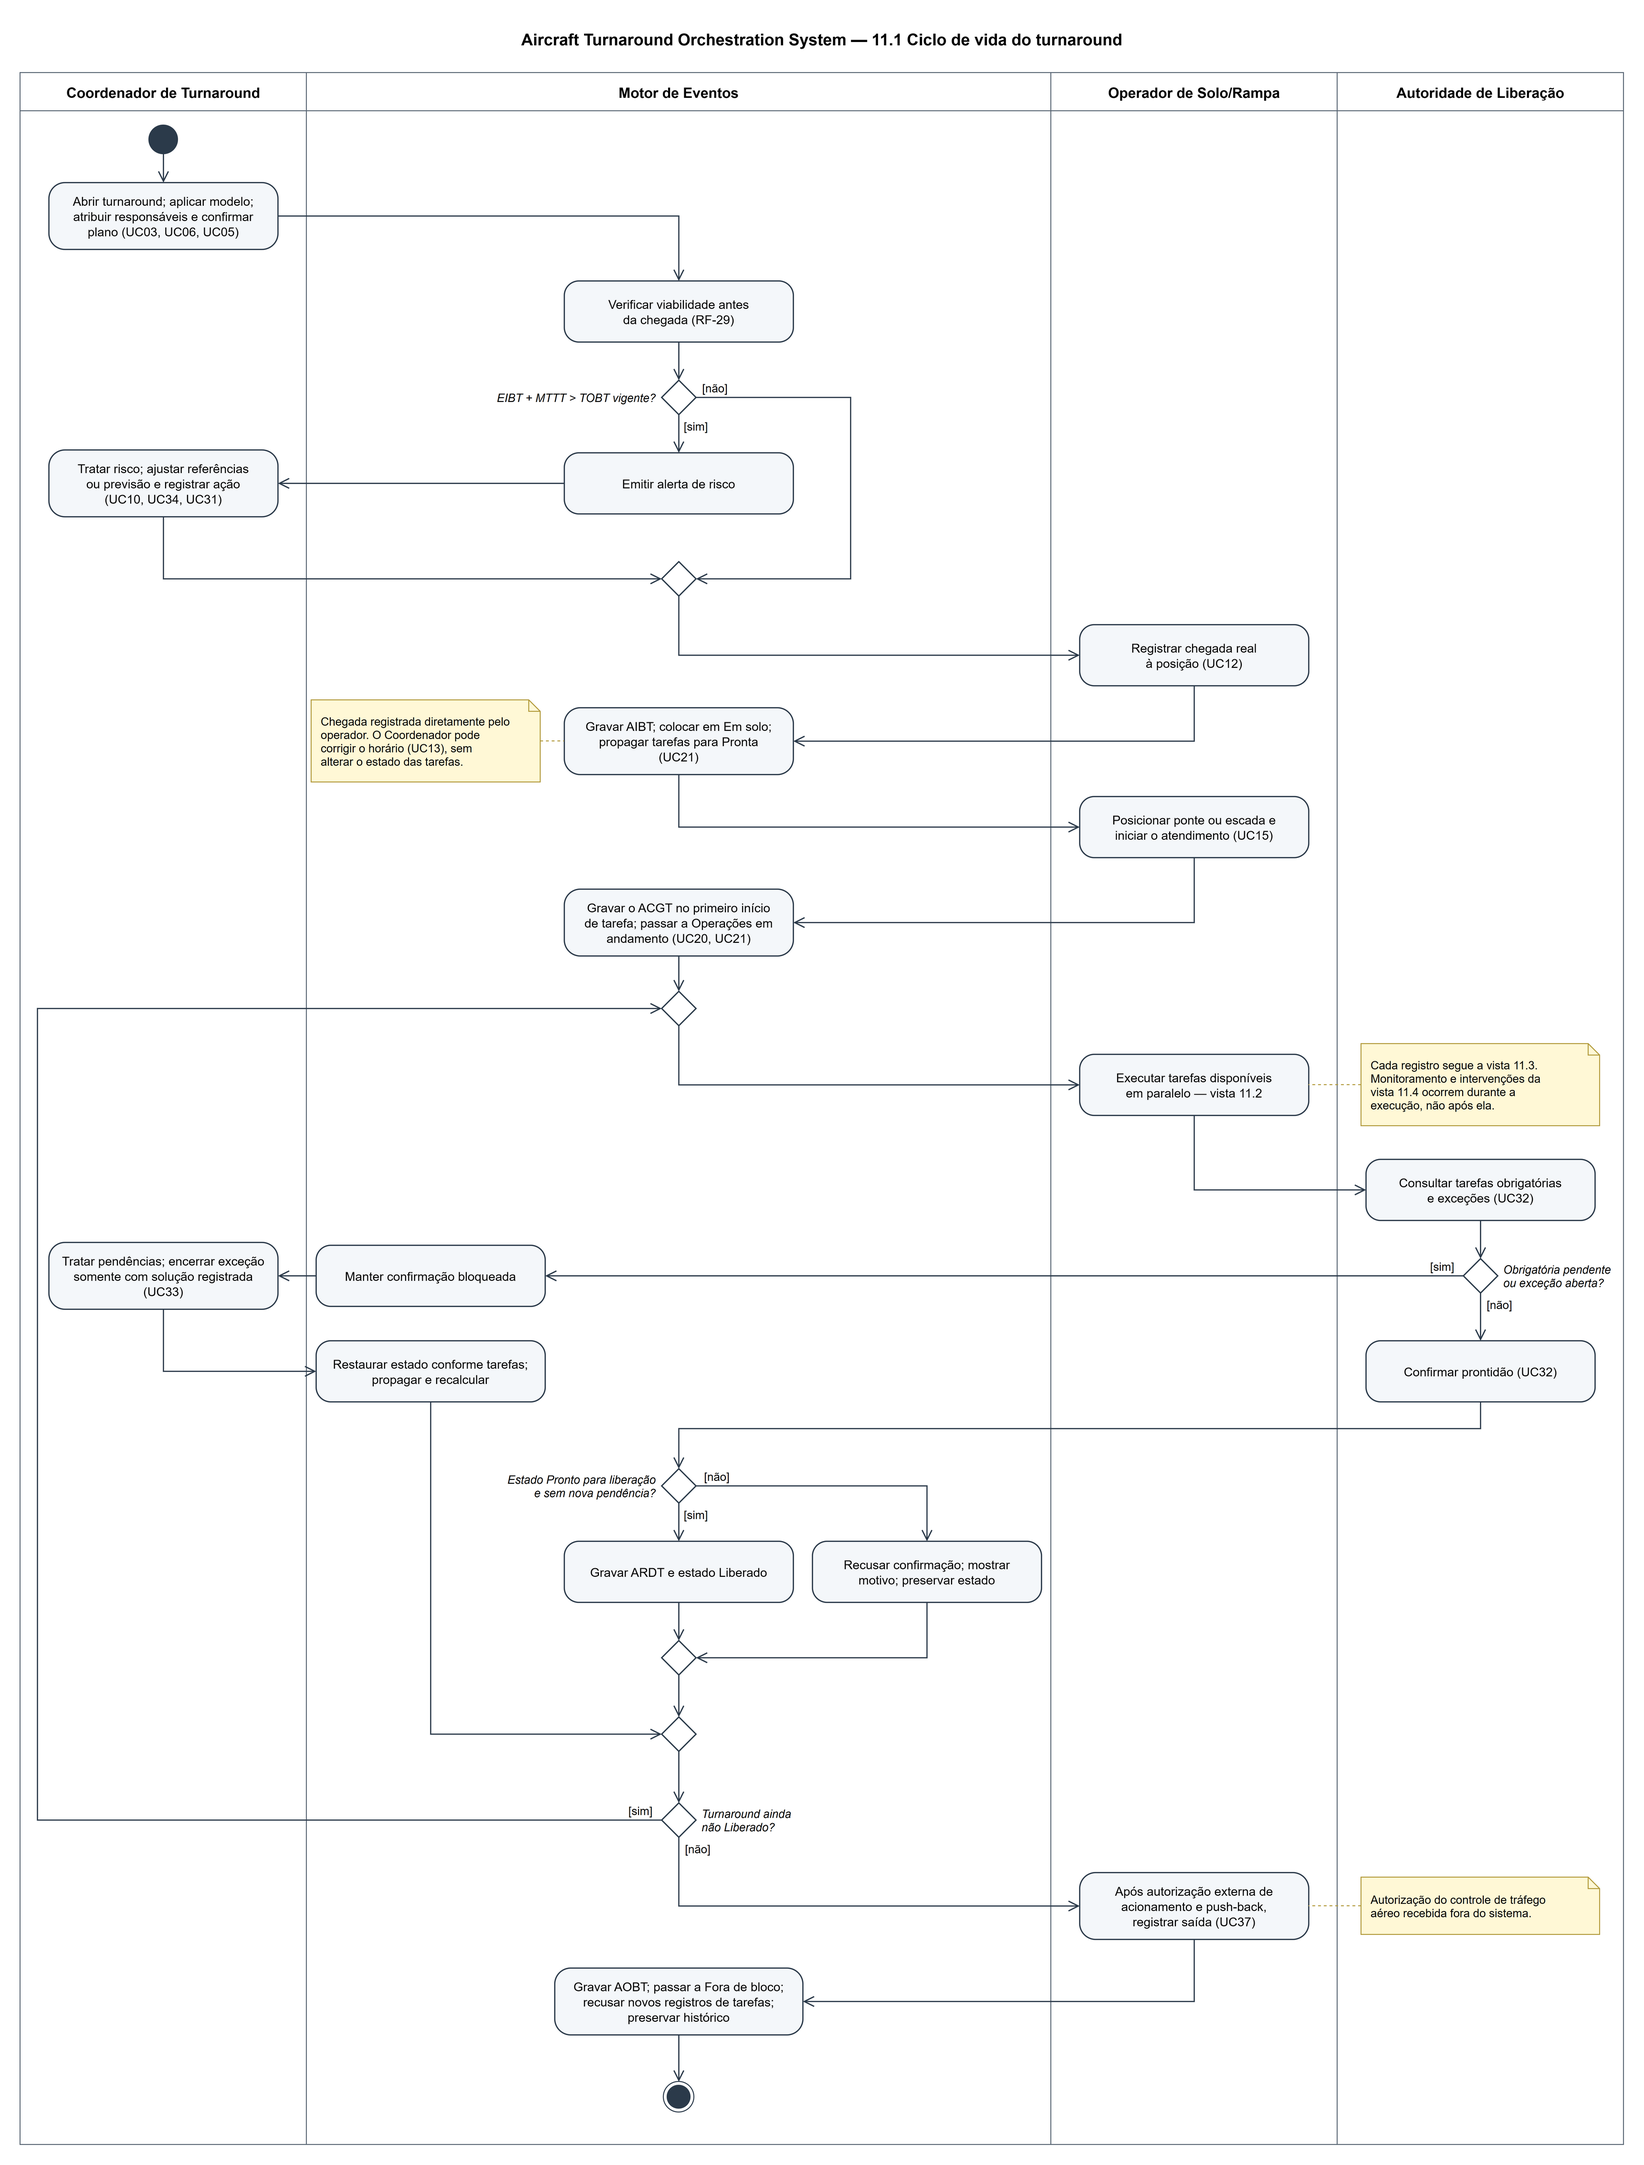
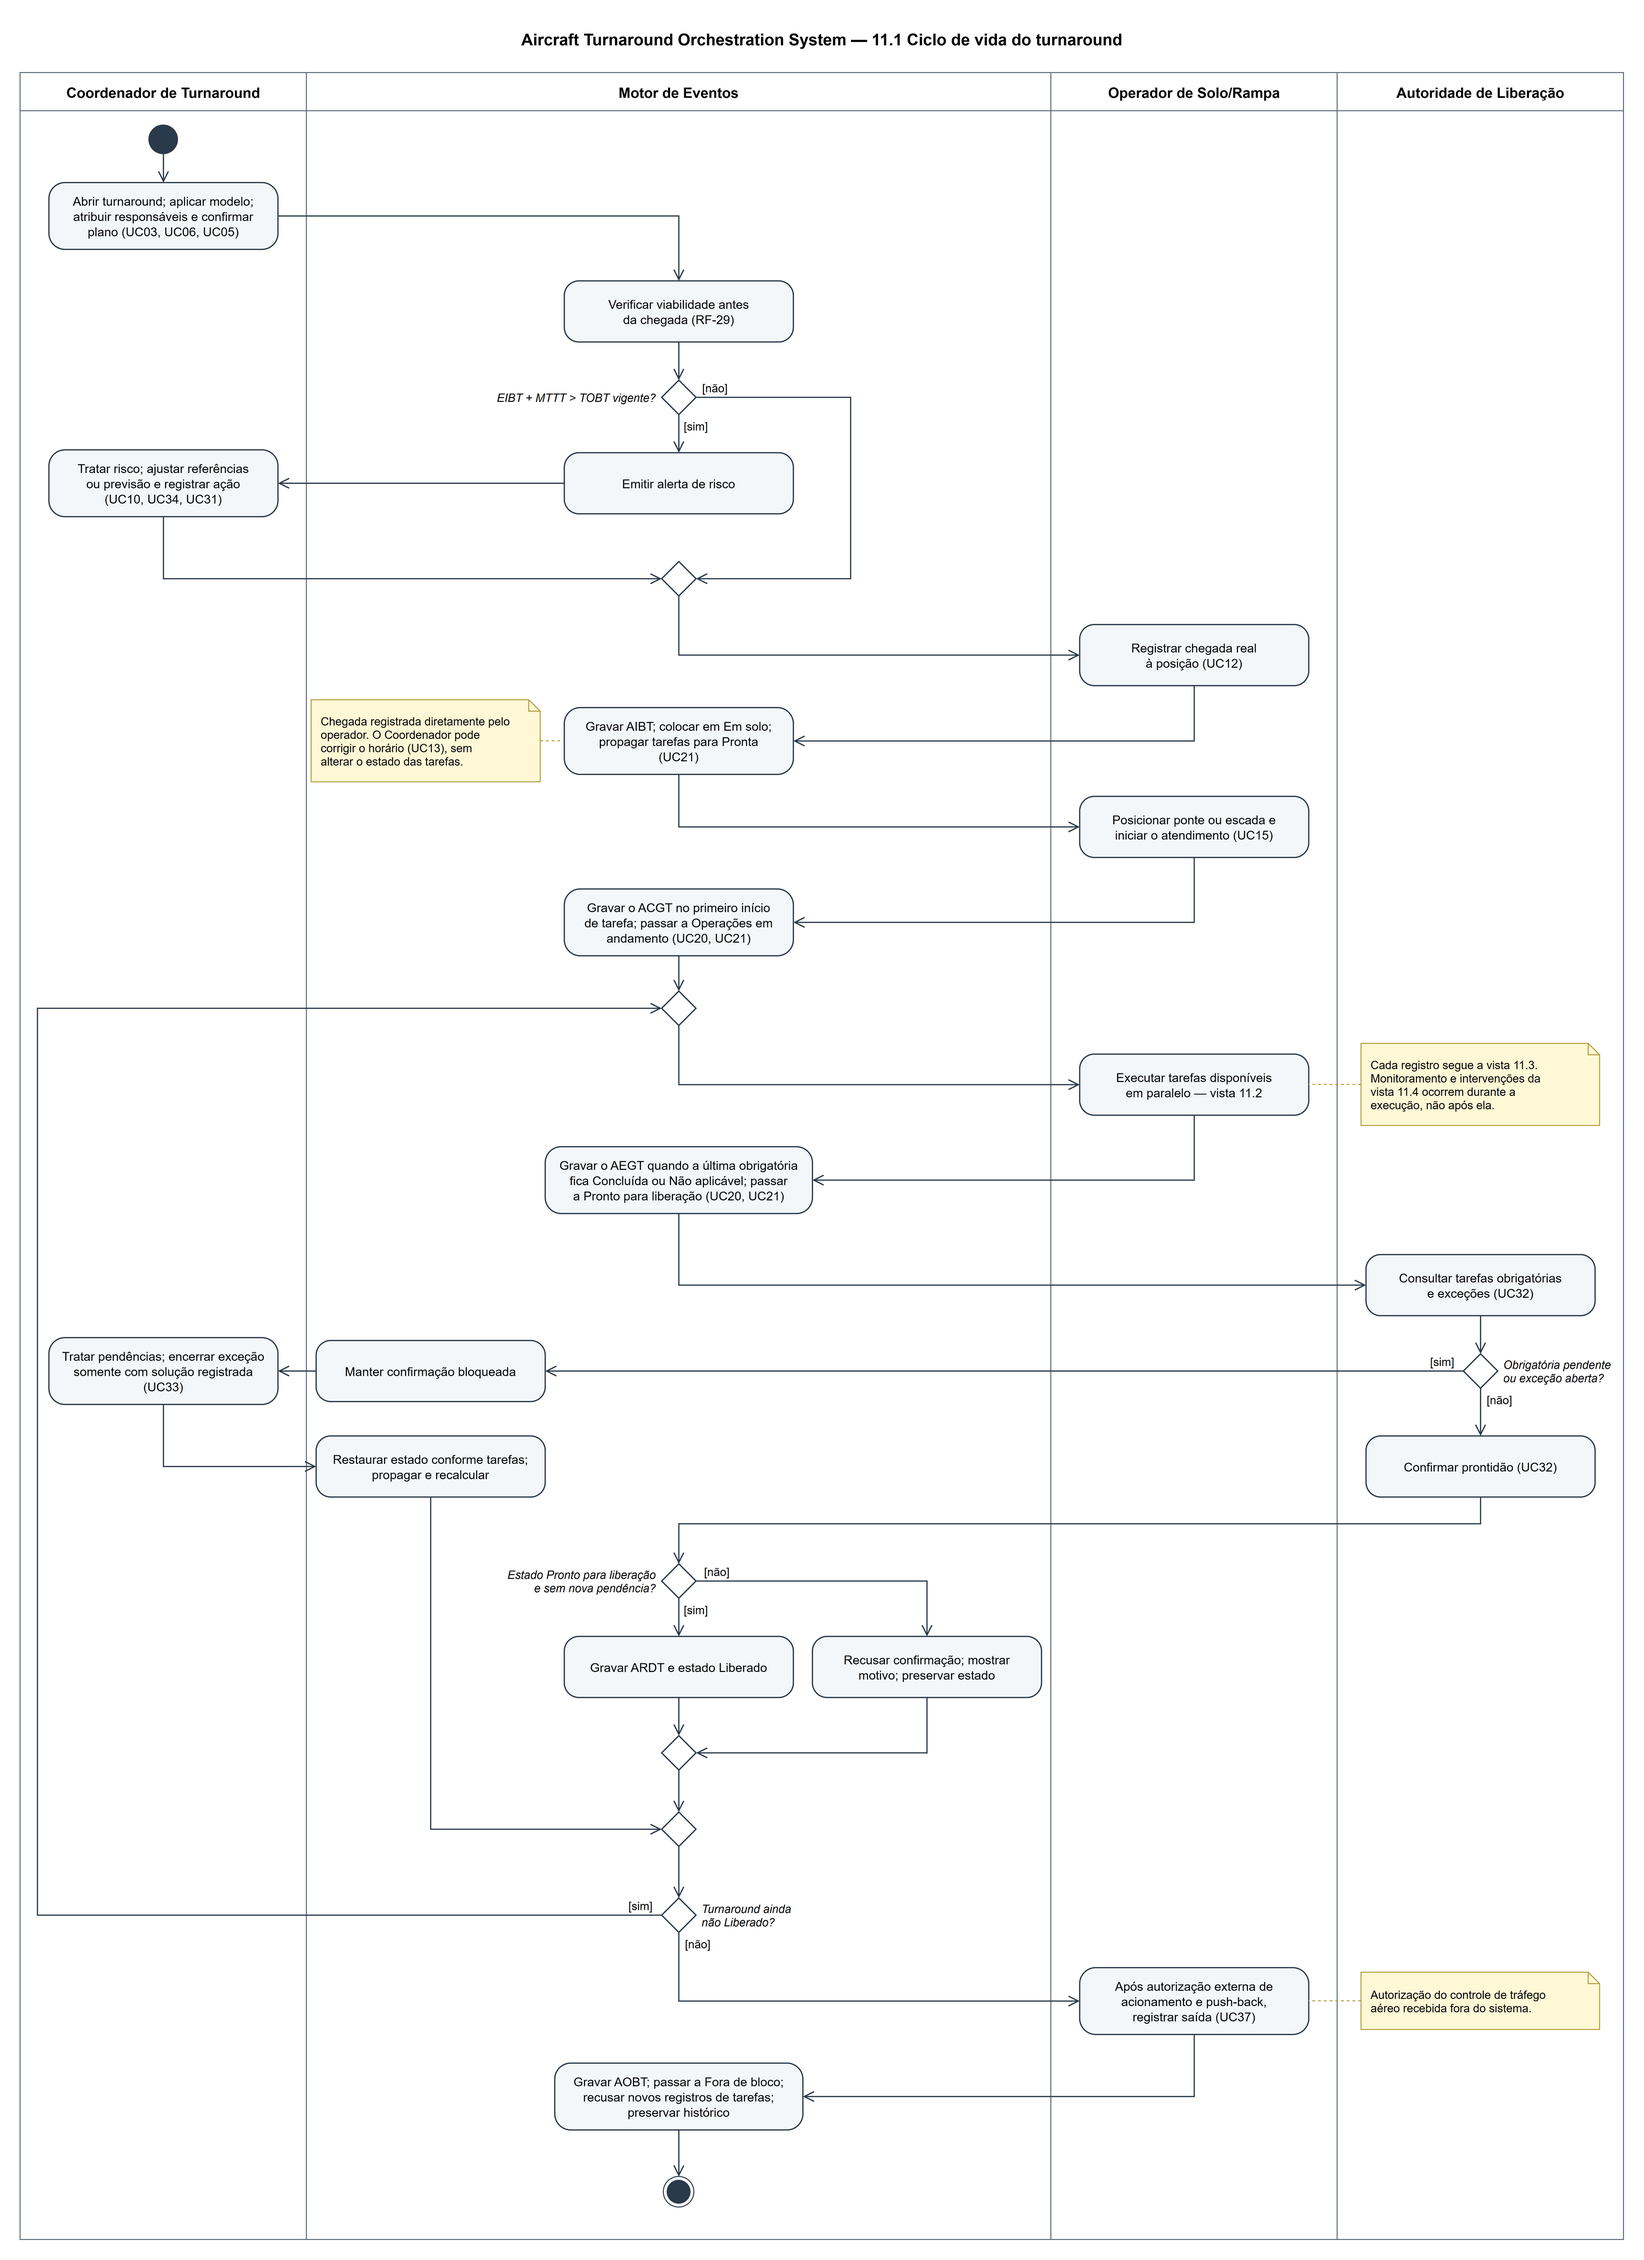
docs(item-11): AEGT e Pronto para liberação nas vistas 11.1 e 11.2
A 11.1 ganha o passo do Motor de Eventos que grava o AEGT e passa o turnaround a Pronto
para liberação (UC20, UC21). Na 11.2, o fim do atendimento passa a levar a sigla AEGT.
O marcos_nos_diagramas.py passa a distinguir o Operador que dispara um marco derivado
pelo RF-20 e o Motor de Eventos que grava um registro.

Closes #126

diff --git a/scripts/marcos_nos_diagramas.py b/scripts/marcos_nos_diagramas.py
@@ -1,8 +1,8 @@
 """Apoio à checagem cruzada dos diagramas (AGENTS.md, regra 6): para cada marco do atendimento em solo, lista os RFs que o
 definem (com o ator) e cada passo de diagrama que o cita (com a partição ou lane em que está).
 
-Marca "conferir" quando a partição do passo não é o ator de nenhum RF que cita o marco. É um apoio à leitura: um passo do
-Operador que dispara o marco pode estar certo; o que decide é ler o RF e o UC.
+Situação de cada passo: vazio (a partição é ator de um RF do marco), "dispara" (o Operador faz o registro de que o Motor de
+Eventos deriva o marco, pelo RF), "grava" (o Motor de Eventos grava o que um ator registrou) ou "conferir" (ler o RF e o UC).
 Uso: python scripts/marcos_nos_diagramas.py
 """
 import html, re, xml.etree.ElementTree as ET
@@ -58,10 +58,22 @@ def main():
         for i, t, a in defs:
             k = t.find(m); print(f'- {i} ({a}): …{t[max(0, k - 160):k + len(m) + 10]}…')
         print('\n| Diagrama | Partição/lane | Passo | |\n|---|---|---|---|')
+        derivado = [i for i, t, a in defs if 'a partir dos registros dos operadores' in t]
         vistos = set()
         for arq, p, t in passos:
             if re.search(rf'\b{m}\b', t) and (arq, p, t) not in vistos:
-                vistos.add((arq, p, t)); print(f'| {arq} | {p or "—"} | {t} | {"" if not p or p in atores else "conferir"} |')
+                vistos.add((arq, p, t)); print(f'| {arq} | {p or "—"} | {t} | {situacao(p, t, atores, derivado)} |')
+
+
+def situacao(p, t, atores, derivado):
+    """'' quando a partição é ator de um RF do marco; 'dispara' quando o Operador faz o registro que o Motor de Eventos
+    transforma no marco (RF que define o marco 'a partir dos registros dos operadores'); 'grava' quando o Motor de
+    Eventos grava o que um ator registrou; 'conferir' nos demais casos e quando o Operador diz registrar um marco derivado."""
+    if not p or p in atores: return ''
+    if p == 'Operador de Solo/Rampa' and derivado:
+        return 'conferir' if re.search(r'\bregistr', t, re.I) else f'dispara ({", ".join(derivado)})'
+    if p == 'Motor de Eventos' and re.match(r'Gravar\b', t): return 'grava'
+    return 'conferir'
 
 
 if __name__ == '__main__':
